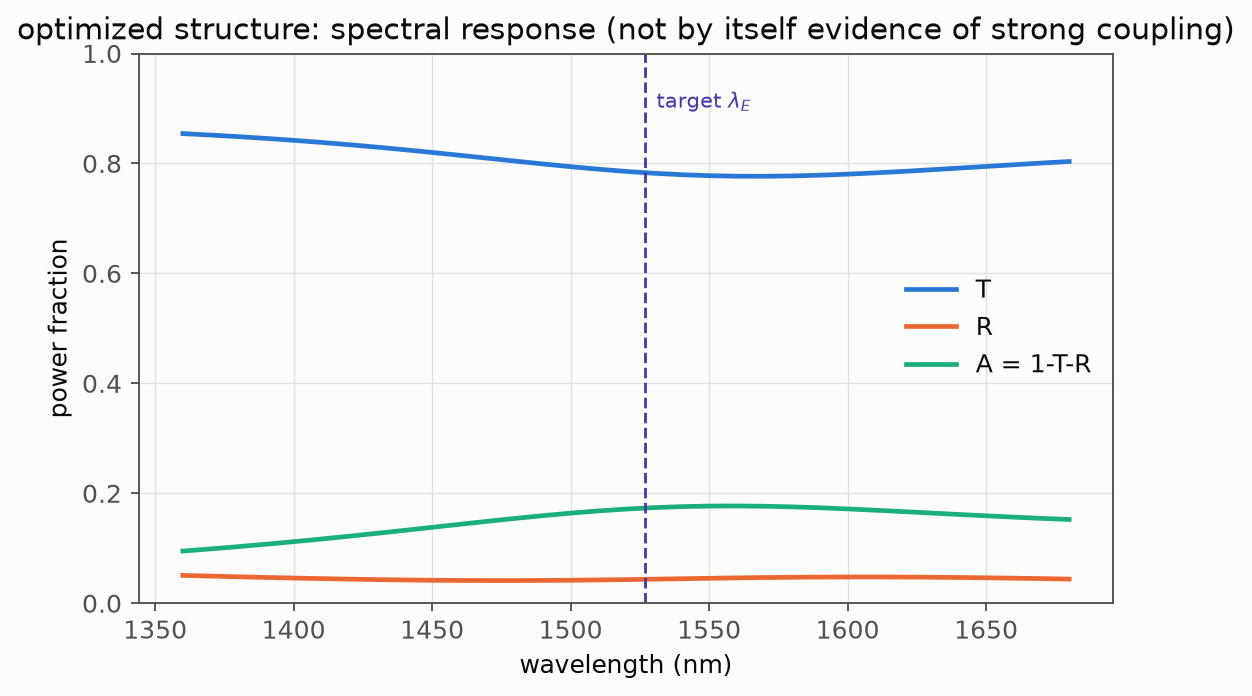
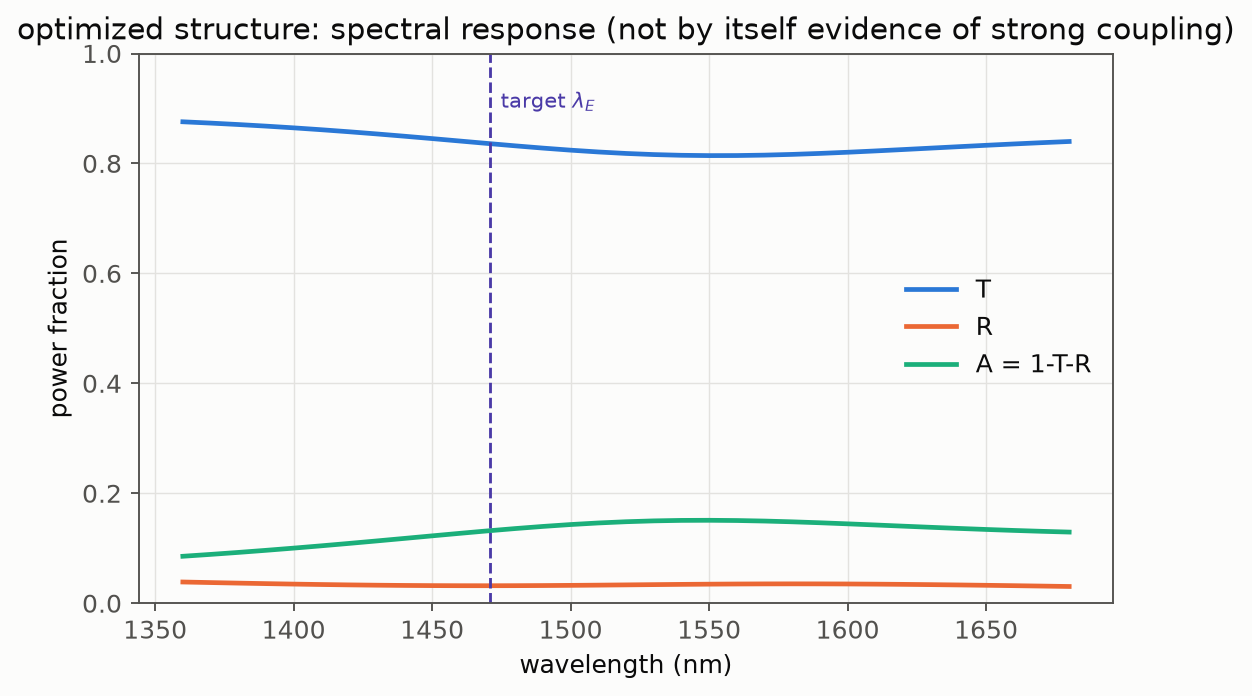
v2 analysis figures and spectra (in-progress analysis chain)
Claude-Session: https://claude.ai/code/session_01WD97gqkKje1C4R3Eqsk7cR

Changed region(s): [[0.1246, 0.7241, 0.8722, 0.8448], [0.1246, 0.1207, 0.8722, 0.2716], [0.4984, 0.1207, 0.5919, 0.181]]

diff --git a/enz_inverse_design/analyze_result.py b/enz_inverse_design/analyze_result.py
@@ -243,6 +243,9 @@ def main(quick=False):
     config.ITO_THICKNESS_NM = float(tgt["ito_thickness_nm"])
     config.N_GLASS = float(tgt["glass_index"])
     lam0 = float(tgt["wavelength_nm"])
+    if config.EPS_ASI is None:
+        import torcwa_forward as fwd
+        config.EPS_ASI = fwd.eps_asi_of_lambda(lam0)
     rho_final = np.load(OUT / "geometries" / "rho_proj_final.npy")
 
     fig1_convergence(hist)
